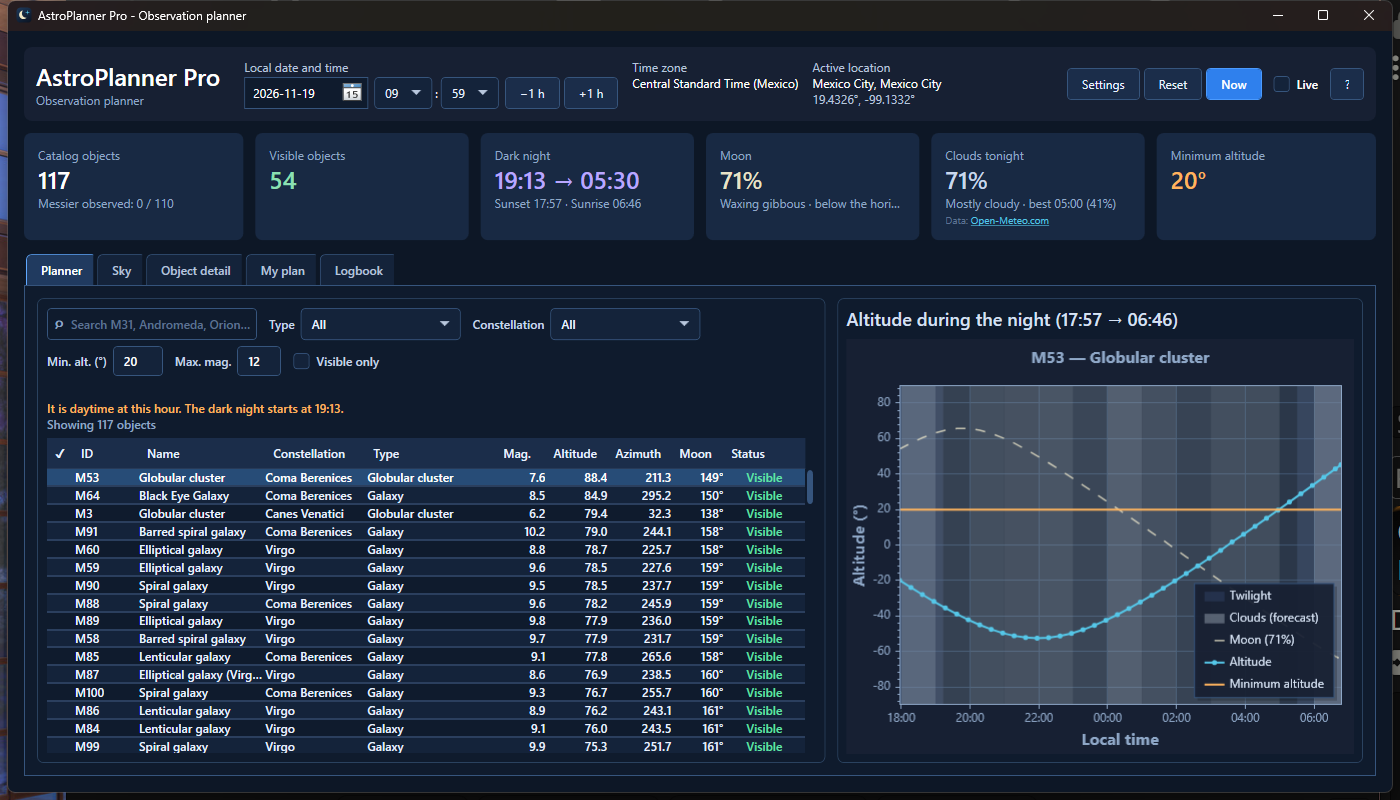
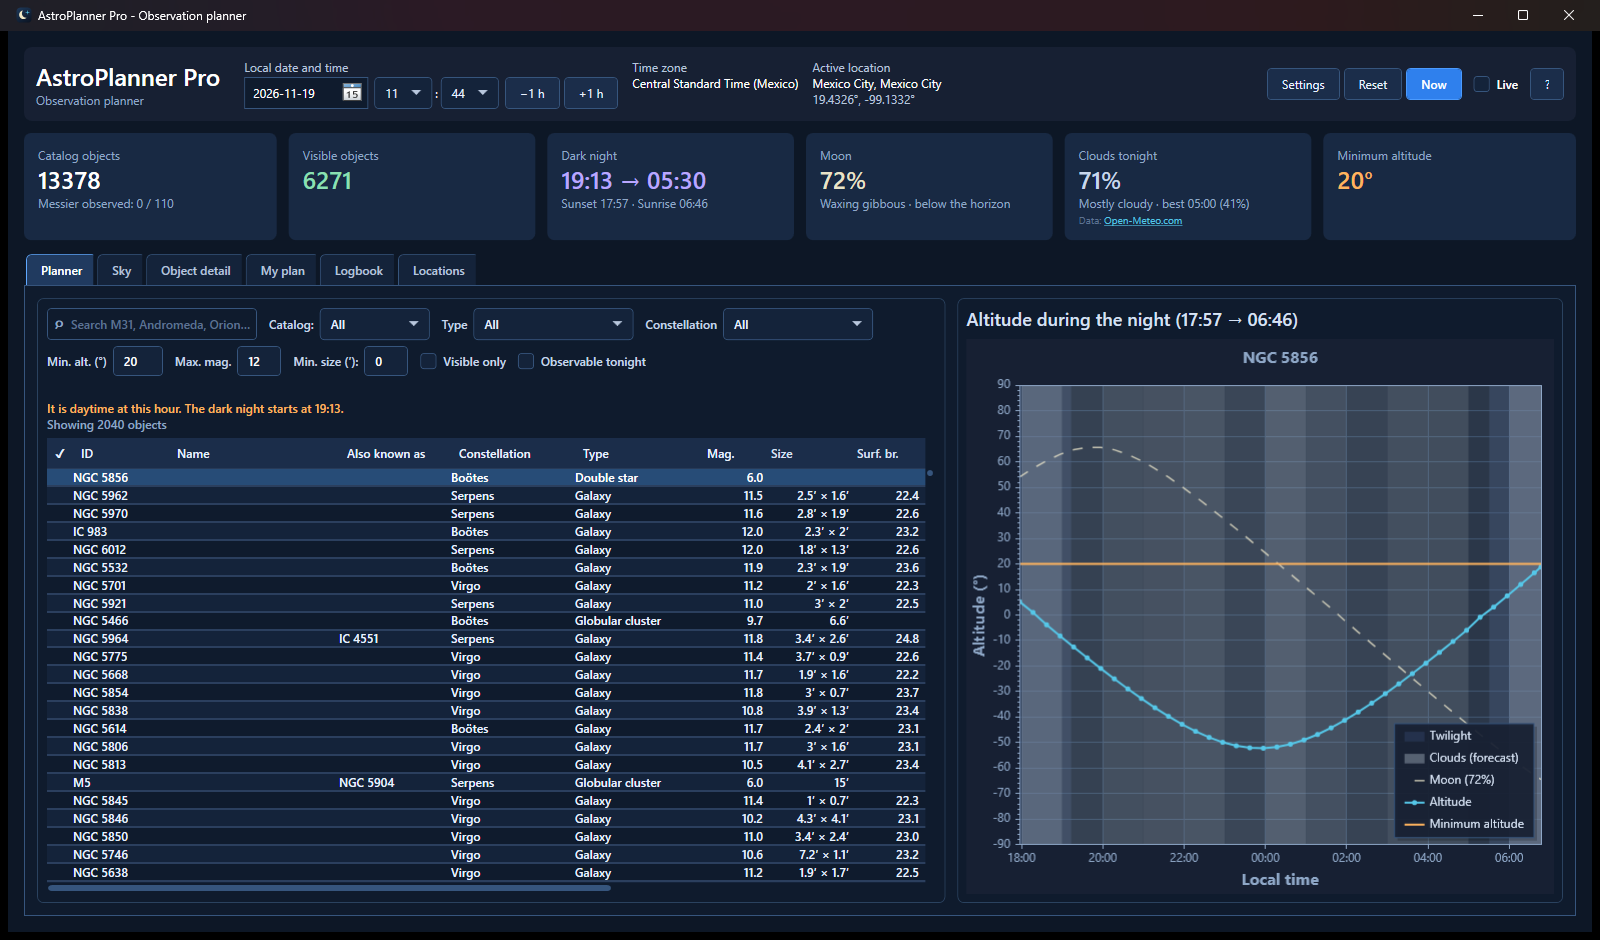
docs: M1 in README, CHANGELOG and contributor notes; CI verifies the catalog database

diff --git a/README.md b/README.md
@@ -17,21 +17,32 @@
 </p>
 
 > **Status: work in progress (v2.0 under development).** AstroPlanner Pro is based on
-> [AstroPlanner v1](https://github.com/Yamato6/AstroPlanner), whose full history it keeps. Milestone
-> M0 is done: the v1 app now runs in English on .NET 10 with a new architecture. The roadmap
-> (live 2D/3D sky, equipment and capture-feasibility model, online enrichment, comets and satellites)
-> is in the [specification](ASTROPLANNER_PRO_SPEC.md).
+> [AstroPlanner v1](https://github.com/Yamato6/AstroPlanner), whose full history it keeps.
+> Milestones M0 (English, .NET 10, new architecture) and M1 (data foundation: the full NGC/IC
+> catalog, saved sites, refined events, v1 import) are done. The roadmap (live 2D/3D sky,
+> equipment and capture-feasibility model, online enrichment, comets and satellites) is in the
+> [specification](ASTROPLANNER_PRO_SPEC.md).
 
-![The planner: visible objects, dark night, Moon, clouds and the altitude of the selected object during the night](docs/screenshots/planner.png)
+![The planner: the NGC/IC catalog with sizes, tonight's maximum altitude and best window, the dark night, Moon, clouds and the altitude of the selected object](docs/screenshots/planner.png)
 
 ## What it does today
 
-- 🔭 **110 Messier objects and the 7 planets**: altitude, azimuth and visibility at the time you choose, with search and filters.
+- 🔭 **13,371 deep-sky objects and the 7 planets**: the whole NGC/IC catalog (OpenNGC), with all
+  110 Messier and 109 Caldwell objects, sizes, surface brightness, common names and cross-IDs.
+  Search by any identifier (`M31`, `NGC 224`, `C14`, `IC 434`, `Sh2-155`, `PGC 2557`) or name, and
+  filter by catalog, type, constellation, magnitude, size and visibility, in milliseconds.
+- 🌌 **Tonight for every object**: maximum altitude and the best window in astronomical darkness
+  above your minimum altitude and your local horizon, computed for the whole catalog in the
+  background.
 - 🌙 **The real night**: sunset and sunrise, astronomical darkness, Moon phase and a warning when its glare gets in the way.
 - ☁ **Hourly clouds**: Open-Meteo forecast and the clearest hour of the night.
 - 🗺 **Sky chart**: what is above the horizon and where, as when looking up.
+- 📍 **Saved sites**: home, dark sites… each with its IANA and Windows time zone and a horizon
+  profile (the editor arrives with the live sky).
 - 📋 **My plan**: tonight's list in the best observing order, with notes, as CSV or printed.
-- 📓 **Logbook**: record what you observe and track your Messier marathon.
+- 📓 **Logbook**: record what you observe and track your Messier marathon and Caldwell progress.
+- ↪ **Import from AstroPlanner v1**: on first run, your v1 settings, plan and logbook are offered
+  for import (the v1 files are only read).
 - ⏱ **Live mode**: follows the clock and refreshes everything every minute.
 
 It works offline; the internet is only used for the cloud forecast and the new-version notice, and both
@@ -58,8 +69,9 @@ survey imagery for framing. See the [specification](ASTROPLANNER_PRO_SPEC.md) an
 | `F5` | Current time | `Ctrl+E` | Export the plan to CSV |
 | `Ctrl+,` | Settings | `F1` | About |
 
-Your data (settings, plan, logbook) is stored in `%LocalAppData%\AstroPlannerPro`. AstroPlanner v1's
-data is left untouched, and both apps can be installed side by side.
+Your data (settings, sites, plan, logbook) is stored in `%LocalAppData%\AstroPlannerPro\app.db`
+(SQLite). AstroPlanner v1's data is only read when you import it, never changed, and both apps
+can be installed side by side.
 
 ## Privacy
 
@@ -75,11 +87,12 @@ Both can be turned off in **Settings → Internet connection**.
 ```bash
 dotnet build AstroPlanner.slnx -warnaserror
 dotnet run --project src/AstroPlanner.UI
-dotnet test AstroPlanner.slnx          # ~200 tests, no network
+dotnet test AstroPlanner.slnx          # ~370 tests, no network
+dotnet run --project tools/AstroPlanner.DataBuilder -- all   # rebuild the catalogs (downloads the sources)
 ```
 
 Requires the .NET 10 SDK. Every push runs CI (build with warnings as errors, tests, coverage with an
-85 % line-coverage gate on Core); a `v*` tag publishes the `.exe`, the installer and the checksums to a
+85 % line-coverage gate on Core, a check of the committed catalog database); a `v*` tag publishes the `.exe`, the installer and the checksums to a
 draft release. Contributor notes are in the docs.
 
 <details>
@@ -90,18 +103,24 @@ rules are enforced by architecture tests.
 
 ```
 src/
-  AstroPlanner.Core/     Domain: models, astronomy algorithms (Meeus), AstronomyService, interfaces
-  AstroPlanner.Data/     Embedded catalogs (Messier, cities) and repositories          → Core
+  AstroPlanner.Core/     Domain: models, astronomy algorithms (Meeus, event finder, IAU constellations,
+                         air mass), night ephemerides, AstronomyService, interfaces
+  AstroPlanner.Data/     SQLite: embedded catalogs.sqlite, app.db (migrations, settings, sites,
+                         plan, logbook), v1 importer, cities                           → Core
   AstroPlanner.Online/   HTTP clients (Open-Meteo)                                     → Core
   AstroPlanner.UI/       WPF app and composition root
-    ViewModels/            Shell, Tonight, Targets, Sky, ObjectDetail, SessionPlan, Logbook, Settings
+    ViewModels/            Shell, Tonight, Targets, Sky, ObjectDetail, SessionPlan, Logbook, Locations, Settings
     Services/              IObserverContext (shared observing state), WeatherState, JSON persistence,
                            CSV/print, logging, update checker, safe links, single instance
     Resources/Strings.resx All user-facing text (localisable)
     Themes/Dark.xaml       Palette and styles (also used by the charts)
+tools/
+  AstroPlanner.DataBuilder    Builds data/build/catalogs.sqlite from OpenNGC and HYG (docs/data-pipeline.md)
+data/                     SOURCES.md, curated/ overlays, build/ generated files (raw/ is git-ignored)
 tests/
-  AstroPlanner.Core.Tests     Meeus worked examples and published ephemerides
-  AstroPlanner.Data.Tests     Catalogs and repositories
+  AstroPlanner.Core.Tests     Meeus worked examples, JPL Horizons fixtures, Roman (1987) test positions
+  AstroPlanner.Data.Tests     Catalog database, app.db, migrations, v1 import
+  AstroPlanner.DataBuilder.Tests  Catalog build from small excerpts of the sources
   AstroPlanner.Online.Tests   HTTP clients with stubbed responses
   AstroPlanner.UI.Tests       View models, services and architecture rules
 installer/                Inno Setup script
@@ -117,6 +136,17 @@ installer/                Inno Setup script
 - **Observing night:** from sunset to sunrise (Sun's center at −0.833°); the dark night with the Sun
   below −18°. 02:00 belongs to the night that started the day before. Where the Sun does not set,
   18:00 → 06:00 is used.
+- **Event times:** bracketed every 10 minutes in UTC, then refined by bisection (rise, set,
+  thresholds, twilight) and golden-section search (culmination) to about a second. Checked
+  against JPL Horizons: sunset, sunrise and twilight in Aguascalientes, Madrid and Oslo, and
+  Jupiter and Saturn rise, culmination and set, all **within one minute**.
+- **Night ephemerides of the catalog:** fixed objects are precessed once per night and sampled
+  every 5 minutes with a shared sidereal time (transit solved analytically); planets go through
+  the full model. ~13k objects take well under a second, in the background.
+- **Constellations:** the IAU boundaries (Roman 1987, CDS VI/42) after precessing to B1875; they
+  agree with OpenNGC for all 13,371 objects. Planets get their real constellation for the date.
+- **Air mass and extinction:** Kasten & Young (1989) and Δm = k·X with k = 0.25 mag (used by the
+  feasibility model from M3).
 - **Precision:** precession J2000 → date (~0.36° in 2026) and standard refraction (~34′ at the
   horizon). No nutation or aberration (< 30″); UT instead of TT (ΔT ≈ 70 s). Elevation is stored but
   not used yet.
@@ -124,8 +154,8 @@ installer/                Inno Setup script
   interferes when above the horizon, ≥ 25 % lit and less than 30° from the object.
 - **Planets:** JPL Keplerian elements (1800-2050) with light-time correction; ~1′ error for the inner
   planets and up to ~10′ for Jupiter and Saturn. Meeus magnitudes (ch. 41) including Saturn's rings (ch. 45).
-- **Wall-clock time → UTC:** the Windows time zone id is stored and converted with `TimeZoneInfo`;
-  times skipped by daylight saving time move forward one hour.
+- **Wall-clock time → UTC:** sites store both the IANA and the Windows time zone id and convert
+  with `TimeZoneInfo`; times skipped by daylight saving time move forward one hour.
 
 **Application**
 - **Filtering never recalculates:** search and filters only filter; positions are recalculated only
@@ -136,8 +166,12 @@ installer/                Inno Setup script
   through the captured `SynchronizationContext`.
 - **Invalid input:** `ObservableValidator` with `[Range]`; an out-of-range value shows a warning and
   the last valid calculation is kept.
-- **Data:** JSON in `%LocalAppData%\AstroPlannerPro`, written atomically (temp file + rename). A
-  damaged logbook is set aside as `logbook.corrupt-<date>.json` instead of being overwritten.
+- **Catalog:** `catalogs.sqlite` is built by a deterministic tool, embedded in the `.exe`, copied
+  once to the data folder and loaded into memory; search keys are precomputed, so filtering
+  ~13k objects takes milliseconds and never recalculates positions.
+- **Data:** SQLite `app.db` in `%LocalAppData%\AstroPlannerPro`, with versioned migrations applied
+  in a transaction after a backup copy. A damaged file is set aside as `app.corrupt-<date>.db`
+  instead of being overwritten.
 - **Errors:** unhandled exceptions are logged in `logs\` and reported without closing the app.
 - **Single instance:** opening it twice brings the existing window to the front, so two processes never
   write the plan at the same time.
@@ -161,6 +195,7 @@ installer/                Inno Setup script
 
 | Project | Package | Version |
 |---|---|---|
+| Data, DataBuilder | Microsoft.Data.Sqlite | 11.0.0 |
 | UI | CommunityToolkit.Mvvm | 8.4.2 |
 | UI | Microsoft.Extensions.DependencyInjection | 11.0.0 |
 | UI | ScottPlot.WPF | 5.1.59 |
@@ -172,9 +207,19 @@ installer/                Inno Setup script
 
 ## Credits and license
 
+- Deep-sky catalog: [OpenNGC](https://github.com/mattiaverga/OpenNGC) by Mattia Verga
+  ([CC BY-SA 4.0](https://creativecommons.org/licenses/by-sa/4.0/)).
+- Stars: [HYG database](https://codeberg.org/astronexus/hyg) v4.4 by David Nash / astronexus.net (CC BY-SA 4.0).
+- Constellation boundaries: Roman (1987), CDS VI/42, as distributed with
+  [astropy](https://github.com/astropy/astropy) (BSD-3-Clause).
 - Cloud forecast: [Open-Meteo.com](https://open-meteo.com/) (data under [CC BY 4.0](https://creativecommons.org/licenses/by/4.0/)).
 - Algorithms: Jean Meeus, *Astronomical Algorithms* (2nd ed.), and approximate orbital elements from JPL (NASA).
 - Charts: [ScottPlot](https://scottplot.net/).
 - Based on [AstroPlanner](https://github.com/Yamato6/AstroPlanner) v1.0.0 by the same author.
+
+Sources, versions and checksums: [data/SOURCES.md](data/SOURCES.md); license texts:
+[THIRD_PARTY_NOTICES.md](THIRD_PARTY_NOTICES.md). The code is MIT; the catalogs keep their own
+licenses. **AstroPlanner Pro is and will stay free:** the light-pollution atlas it will use from M3
+(Falchi et al. 2016) is licensed for non-commercial use only.
 
 © 2026 Yamato6 · [MIT License](LICENSE)

diff --git a/CHANGELOG.md b/CHANGELOG.md
@@ -6,6 +6,59 @@ versions follow [Semantic Versioning](https://semver.org/). Versions up to 1.0.0
 
 ## [Unreleased] — 2.0.0
 
+### M1 — Data foundation & catalogs
+
+#### Added
+- **The whole NGC/IC catalog**: 13,371 objects from OpenNGC (v20260501), with all 110 Messier
+  and 109 Caldwell objects, sizes, position angles, surface brightness, common and alternate
+  names and cross-IDs (M, NGC, IC, Caldwell, PGC, UGC, ESO, LBN, Sh2, Mel, Cl…). Messier objects
+  keep their ids and English names; M102 is NGC 5866, as in v1. 83,476 HYG v4.4 stars to
+  magnitude 9 are stored for the sky renderer (M2).
+- **`tools/AstroPlanner.DataBuilder`**: `download` (pinned URLs, SHA-256 checked), `build-catalogs`
+  (deterministic `catalogs.sqlite` + report) and `verify`. Sources and licenses in
+  `data/SOURCES.md`, license texts in `THIRD_PARTY_NOTICES.md`, details in `docs/data-pipeline.md`.
+- **Targets table**: search by any identifier or name; catalog, minimum size and "Observable
+  tonight" filters; new columns *Also known as*, *Size*, *Surface brightness*, *Max. alt.* tonight
+  and *Best window* (longest stretch of darkness above the minimum altitude and the horizon).
+  Filtering 15k objects takes < 200 ms (test).
+- **Night ephemerides** of the whole catalog, in the background and cancellable (< 1 s for 15k
+  objects, test), recalculated only when the night, the site, the horizon or the minimum
+  altitude change.
+- **IAU constellation lookup** (Roman 1987, CDS VI/42): planets now show their real constellation
+  instead of "Solar System"; the constellation filter lists the 88 constellations.
+- **Air mass and extinction** (Kasten & Young 1989, Δm = k·X) in Core, for the feasibility model.
+- **Saved sites** (*Locations* tab): save the site in use, switch, delete; each site has IANA and
+  Windows time-zone ids and a horizon profile, already used for visibility and the best window
+  (its editor comes in M2). The cities list gains IANA ids; Hermosillo now uses
+  America/Hermosillo.
+- **Import from AstroPlanner v1** on first run: settings (as a saved site), plan and logbook;
+  Spanish planet ids are mapped (Marte → Mars), names re-resolved, pre-0.6 plans understood, v1
+  files only read.
+- Logbook: **Caldwell progress** next to the Messier marathon.
+- Object detail: cross-IDs, size, surface brightness, real constellation and tonight's best window.
+- About window: catalog credits.
+
+#### Changed
+- **Event times are refined** to about a second (bisection for rise/set/thresholds/twilight,
+  golden-section search for culmination) and computed in UTC; checked against JPL Horizons
+  fixtures (Sun at three sites, Jupiter, Saturn) within one minute. Before, culmination was the
+  highest 10-minute sample.
+- **User data moves to SQLite** (`app.db`) with versioned migrations, a backup before migrating
+  and damaged files set aside; the M0 JSON files are no longer used.
+- Persistence contracts (`ISettingsService`, `IObservationPlanService`, `IObservationLogService`,
+  `ILocationRepository`) move to Core; Data implements them.
+- Objects of unknown magnitude: nebulae and associations always pass the magnitude filter; other
+  objects without a magnitude are hidden by it.
+- The 2D sky chart draws at most the 300 brightest objects (plan, selection and planets first)
+  and labels 60, until the live sky of M2.
+- The single-file `.exe` stays at ~75 MB (the catalog adds ~4.8 MB compressed).
+
+#### Project
+- Architecture tests: the DataBuilder may use only Core and Data and nothing may use it; only
+  Data talks to SQLite.
+- CI verifies the committed catalog database.
+- Tests: 364 (Core 128, Data 36, DataBuilder 38, Online 6, UI 156); Core line coverage ~89 %.
+
 ### M0 — Bootstrap the new repository
 
 Behaviour is unchanged from AstroPlanner 1.0.0; the app now runs in English on .NET 10.
